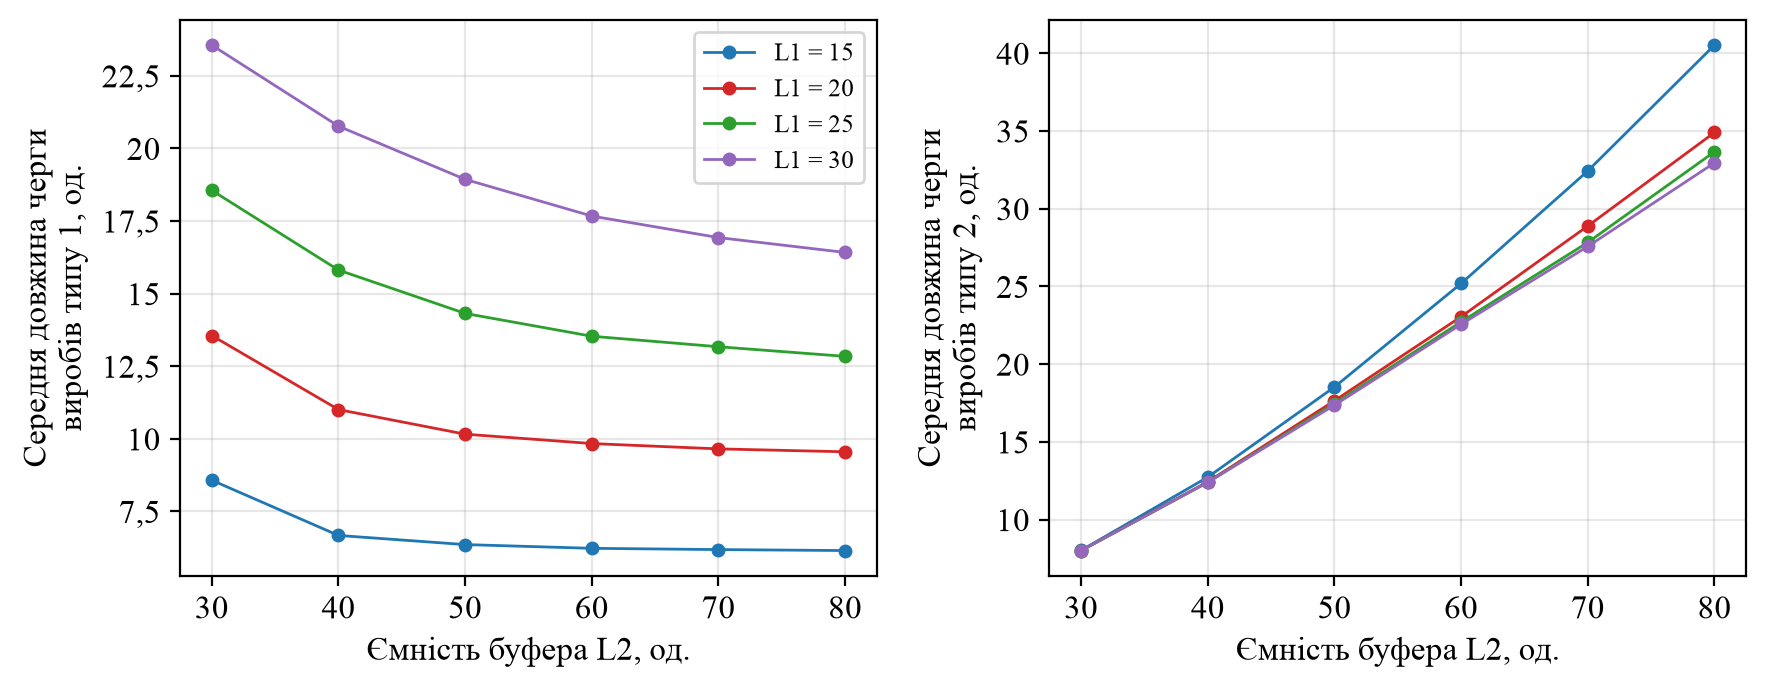
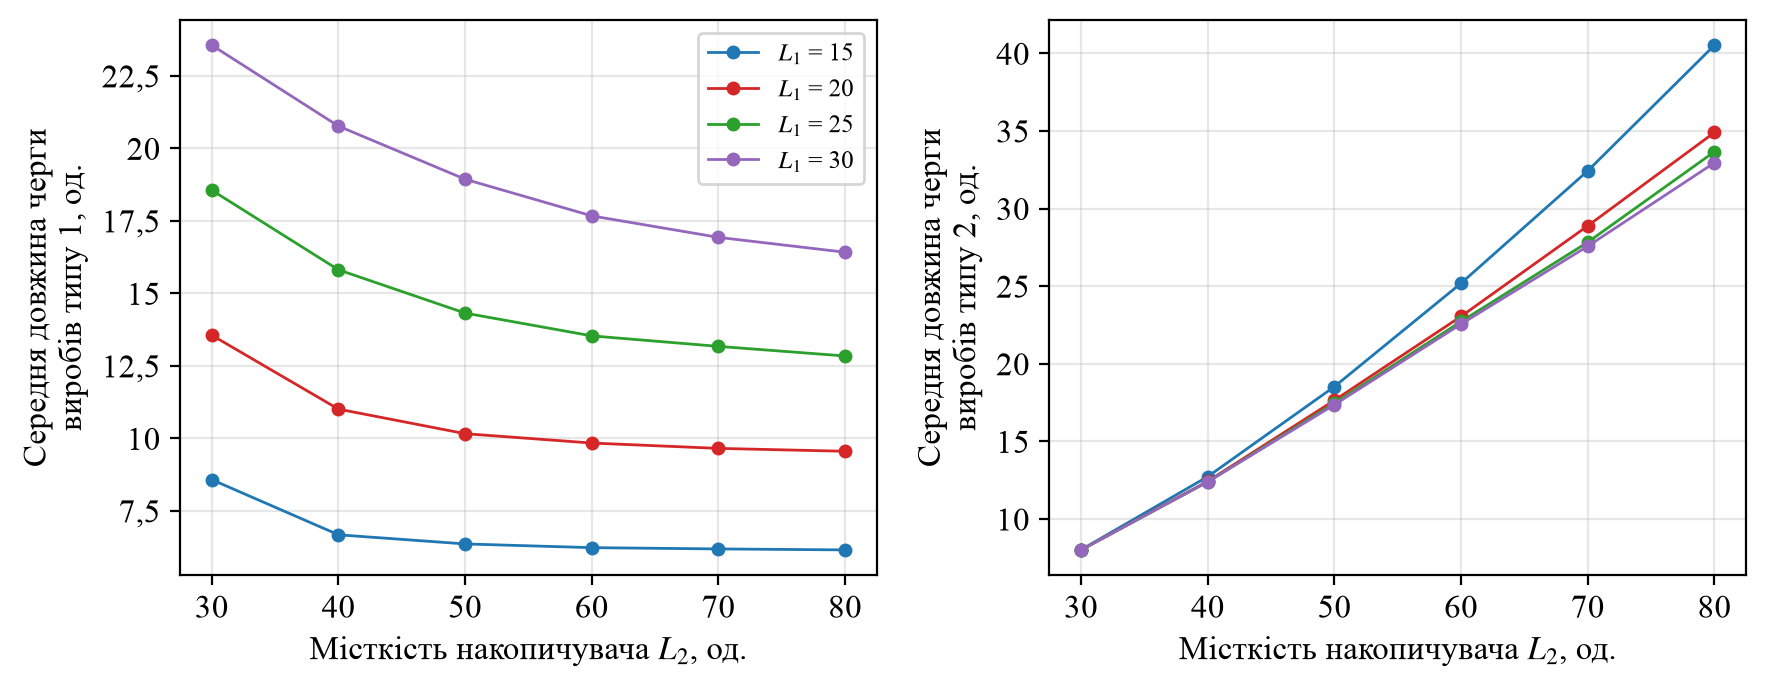
Use model notation in chart labels

diff --git a/src/experiments/buffer_series.py b/src/experiments/buffer_series.py
@@ -129,7 +129,7 @@ def plot_series(rows, level, best, reg_row, path_p, path_q):
         pts = sorted((r for r in rows if r["L1"] == l1), key=lambda r: r["L2"])
         ax.errorbar([r["L2"] for r in pts], [r["p_skip"] for r in pts],
                     yerr=[r["p_skip_ci"] for r in pts], marker="o", ms=4, capsize=3,
-                    color=RUN_COLORS[i], lw=1, label=f"L1 = {l1}")
+                    color=RUN_COLORS[i], lw=1, label=f"$L_1$ = {l1}")
     grid = np.linspace(reg_row["L2_from"], reg_row["L2_to"], 200)
     pretty = {"ln P = b0 + b1 x + b2 x^2": r"$\ln P = b_0 + b_1 x + b_2 x^2$",
               "ln P = b0 + b1 x": r"$\ln P = b_0 + b_1 x$",
@@ -140,12 +140,12 @@ def plot_series(rows, level, best, reg_row, path_p, path_q):
     ax.axhline(level, color="gray", ls=":", lw=1.2, label=f"рівень {level:g}".replace(".", ","))
     if best:
         ax.plot(best["L2"], best["p_skip"], "s", ms=10, mfc="none", mec="k",
-                label=f"мінімальний буфер ({best['L1']}, {best['L2']})")
+                label=f"мінімальний накопичувач ({best['L1']}, {best['L2']})")
     ax.set_yscale("log")
     ticks = [0.01, 0.02, 0.05, 0.1, 0.2]
     ax.set_yticks(ticks, [f"{t:g}".replace(".", ",") for t in ticks])
     ax.yaxis.set_minor_formatter(plt.matplotlib.ticker.NullFormatter())
-    ax.set_xlabel("Ємність буфера виробів типу 2 L2, од.")
+    ax.set_xlabel("Місткість накопичувача виробів типу 2 $L_2$, од.")
     ax.set_ylabel("Ймовірність пропуску секції, –")
     ax.legend(fontsize=9)
     fig.tight_layout()
@@ -157,8 +157,8 @@ def plot_series(rows, level, best, reg_row, path_p, path_q):
         for i, l1 in enumerate(L1_GRID):
             pts = sorted((r for r in rows if r["L1"] == l1), key=lambda r: r["L2"])
             ax.plot([r["L2"] for r in pts], [r[key] for r in pts], marker="o", ms=4,
-                    color=RUN_COLORS[i], lw=1, label=f"L1 = {l1}")
-        ax.set_xlabel("Ємність буфера L2, од.")
+                    color=RUN_COLORS[i], lw=1, label=f"$L_1$ = {l1}")
+        ax.set_xlabel("Місткість накопичувача $L_2$, од.")
         ax.set_ylabel(f"Середня довжина черги\nвиробів {title}, од.")
         decimal_comma(ax)
     axes[0].legend(fontsize=9)

diff --git a/src/experiments/transient.py b/src/experiments/transient.py
@@ -99,9 +99,10 @@ def plot_running(runs, path, x0=0.0, t_mod=None):
         if key == "p_skip":
             ax.set_ylim(bottom=0)
         if t_mod:
-            ax.axvline(t_mod, color="k", ls="--", lw=1, label=f"T_mod = {t_mod:g} хв")
+            t_txt = f"{t_mod:,.0f}".replace(",", " ")
+            ax.axvline(t_mod, color="k", ls="--", lw=1, label=rf"$T_{{\mathrm{{мод}}}}$ = {t_txt} хв")
         decimal_comma(ax)
-    axes[-1].set_xlabel("Модельний час t, хв")
+    axes[-1].set_xlabel(r"Модельний час $t$, хв")
     axes[-1].set_xlim(left=x0)
     axes[0].legend(ncol=3, fontsize=9, loc="best")
     fig.tight_layout()
@@ -141,7 +142,7 @@ def warmup_study(buffer):
     for lvl, c in ((lvl1, RUN_COLORS[0]), (lvl2, RUN_COLORS[1])):
         ax.axhspan(0.95 * lvl, 1.05 * lvl, color=c, alpha=0.12)
     ax.axvline(t_warm, color="k", ls="--", lw=1, label=f"кінець перехідного періоду, {t_warm:g} хв")
-    ax.set_xlabel("Модельний час t, хв")
+    ax.set_xlabel(r"Модельний час $t$, хв")
     ax.set_ylabel(f"Середня за {ENS_RUNS} прогонами\nдовжина черги, од.")
     ax.set_ylim(bottom=0)
     ax.legend(fontsize=9, loc="lower right")
